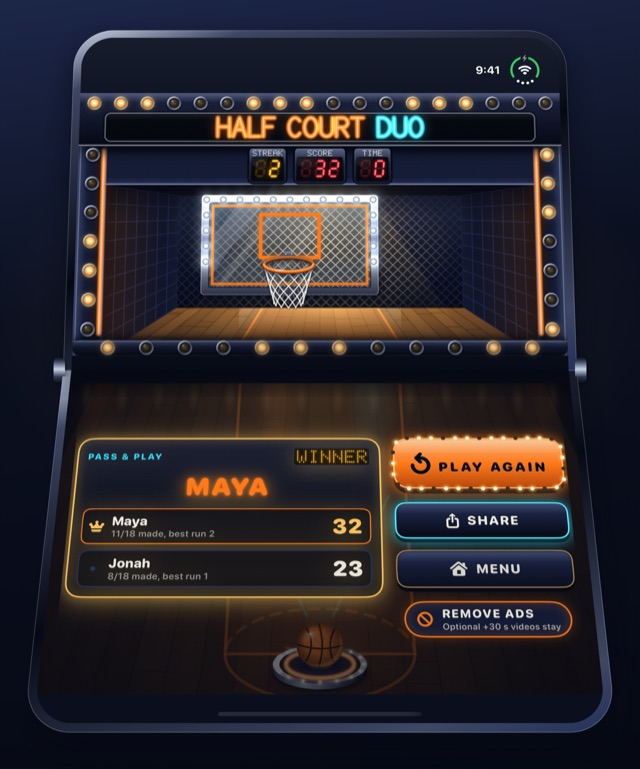
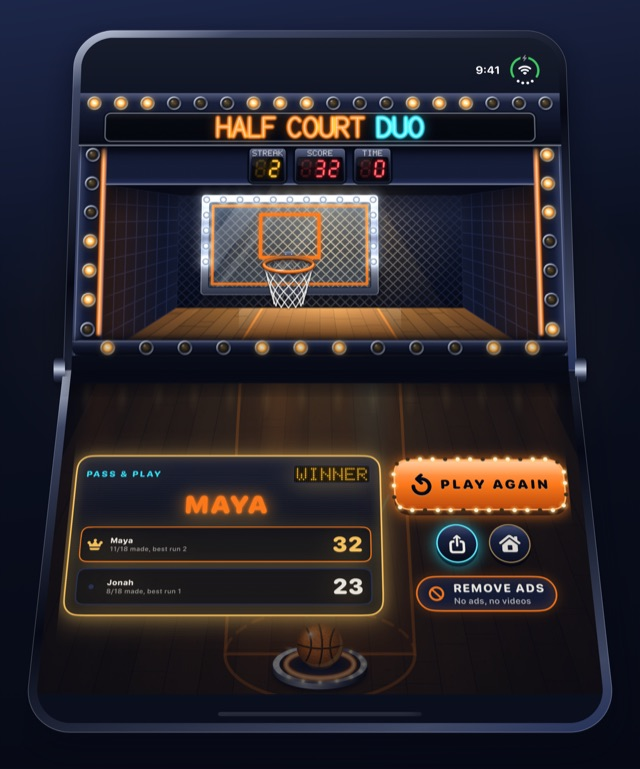
The site says what the game sells and how its ads run now: power-ups, Remove Ads removing every ad, an advert before each round's results, and consent at the first launch
The game's Monetization v2 (its docs/MONETIZATION-V2.md and decisions 255 to 335, integrated in 290 to 299)
changed four things this site described: an interstitial may follow every finished round, before its
results, behind an AD BREAK sign, with a 45 second floor and never mid-match in Pass & Play; the tracking
card and prompt come at the first launch, after Google's form, and never for a Remove Ads owner; three
power-ups are sold as seven consumable packs, Arcade only, never posted to Game Center and not
restorable; and Remove Ads now removes every ad, the videos included, with both rewards kept on a tap.

The privacy page is docs/PRIVACY-POLICY.md word for word again (987 words; it had not yet taken the Remove
Ads change either). The home page's ads section is the listing's description, with a power-ups section;
support gains a Power-ups section and rewrites Remove Ads, the +30 s overtime, Game Center, the ads and
your data from the code's own strings; terms say the game sells two kinds of thing, with prices only from
the App Store. The three pictures whose menu or results changed (05, 06, 07) are rebuilt from the game's
recaptured, recomposed store screenshots.

Gates: scripts/lint-site.py clean (privacy word for word); scripts/make-images.sh changed only the three
recaptured shots.

Claude-Session: https://claude.ai/code/session_01Ve2M4L9oReYar3Uw5EECAD

Changed region(s): [[0.0938, 0.5618, 0.9062, 0.8427]]

diff --git a/support/index.html b/support/index.html
@@ -4,7 +4,7 @@
 <meta charset="utf-8">
 <meta name="viewport" content="width=device-width, initial-scale=1">
 <title>Half Court Duo support</title>
-<meta name="description" content="Help with Half Court Duo: how to play, folding and the ways to hold it, Remove Ads and Restore Purchases, the +30 s video, Game Center, sound, and how to reach us.">
+<meta name="description" content="Help with Half Court Duo: how to play, folding and the ways to hold it, power-ups, Remove Ads and Restore Purchases, the +30 s overtime, Game Center, sound, and how to reach us.">
 <meta name="theme-color" content="#0B1020">
 <link rel="canonical" href="https://halfcourtduo.com/support/">
 <link rel="icon" href="/assets/logo-32.png" sizes="32x32" type="image/png">
@@ -13,7 +13,7 @@
 <meta property="og:site_name" content="Half Court Duo">
 <meta property="og:url" content="https://halfcourtduo.com/support/">
 <meta property="og:title" content="Half Court Duo support">
-<meta property="og:description" content="How to play, folding, Remove Ads and Restore Purchases, Game Center, and how to reach us.">
+<meta property="og:description" content="How to play, folding, power-ups, Remove Ads and Restore Purchases, Game Center, and how to reach us.">
 <meta property="og:image" content="https://halfcourtduo.com/assets/og-2.jpg">
 <meta property="og:image:width" content="1200">
 <meta property="og:image:height" content="630">
@@ -61,8 +61,9 @@
   <li><a href="#modes">The modes</a></li>
   <li><a href="#fold">Folding</a></li>
   <li><a href="#leaving">Leaving a round</a></li>
+  <li><a href="#power-ups">Power-ups</a></li>
   <li><a href="#remove-ads">Remove Ads and restoring it</a></li>
-  <li><a href="#overtime">The +30 s video</a></li>
+  <li><a href="#overtime">The +30 s overtime</a></li>
   <li><a href="#game-center">Game Center</a></li>
   <li><a href="#sound">Sound and haptics</a></li>
   <li><a href="#ads">Ads and your choices</a></li>
@@ -109,8 +110,8 @@ once.</p>
   hand the phone over and the second player taps <strong>Ready</strong>. Each half's last ten seconds
   are its bonus period, and Heat and the hoop start over for the second player. The higher score wins,
   and an equal score is a tie.</p>
-  <p>Nothing from a Pass &amp; Play match goes to Game Center, there is no +30 s video, and no full
-  screen advert is ever shown between the two halves.</p></dd>
+  <p>Nothing from a Pass &amp; Play match goes to Game Center, there is no +30 s overtime and no
+  power-ups, and no full screen advert is ever shown between the two halves.</p></dd>
 </dl>
 
 <h2 id="fold">Folding, and the ways to hold it</h2>
@@ -151,39 +152,75 @@ way of holding it plays the same game.</p>
   once, so a best made at the buzzer is never lost.</li>
 </ul>
 
+<h2 id="power-ups">Power-ups</h2>
+<p>Three power-ups change one Arcade round each, and only Arcade: the Daily Shootout, Streak and Pass
+&amp; Play are always played without them.</p>
+<dl>
+  <dt>Slow-Mo</dt>
+  <dd><p>The clock and the hoop run at three quarters speed. 60 seconds on the board last 80, and the
+  bonus period and any +30 s overtime stretch the same way. The ball flies at its usual speed.</p></dd>
+  <dt>Steady Hoop</dt>
+  <dd><p>The hoop stays still all round, whatever your score.</p></dd>
+  <dt>Hot Start</dt>
+  <dd><p>The ball is on fire from GO: every basket earns the Heat bonus for the first 15 seconds on the
+  clock, misses and all, and after that it stays lit until your next miss. With Slow-Mo as well, those
+  15 seconds on the clock take 20.</p></dd>
+</dl>
+<p><strong>Switching one on.</strong> The <strong>POWER-UPS</strong> tray sits beside
+<strong>PLAY</strong> on the main menu and beside <strong>Play Again</strong> on Arcade results (on the
+outside screen, a round Power-ups button beside PLAY opens it). Tap a power-up you hold to switch it on,
+and PLAY says what it will use: <em>60 second arcade, with Slow-Mo</em>. One of each switched-on
+power-up is used when the round starts, and they switch off again, so Play Again never uses one you did
+not choose. A round with power-ups counts for your powered best, never for the leaderboards or
+achievements.</p>
+<p><strong>Getting them.</strong> Tap <strong>Shop</strong> in the tray, or <strong>Settings,
+Power-ups, Get power-ups</strong>. Each power-up comes in packs of 5 and 20, and the Power-Up Bundle has
+5 of each; the prices shown are the App Store's, in your own currency. You can also watch a short video
+for one free power-up of your choice, up to 3 a day, when a video is ready.</p>
+<p><strong>They cannot be restored.</strong> Power-ups are kept on this device. They are used up as you
+play, so Restore Purchases cannot bring them back, and deleting the app deletes any you have left. If a
+pack you paid for does not arrive, open the game again with a connection: a purchase that was paid for
+is added the next time the game starts. If it still has not arrived, email us.</p>
+
 <h2 id="remove-ads">Remove Ads, and restoring it</h2>
-<p>Remove Ads is the only thing Half Court Duo sells. Buy it from the <strong>Remove Ads</strong> chip
-on the main menu or the results screen, or from <strong>Settings, Remove Ads</strong>. The price shown
-is the App Store's, in your own currency.</p>
+<p>Buy Remove Ads from the <strong>Remove Ads</strong> chip on the main menu or the results screen, or
+from <strong>Settings, Remove Ads</strong>. The price shown is the App Store's, in your own currency.</p>
 <div class="callout">
-  <p><strong>It removes the banner and the between-round ads, at once. It does not remove the optional
-  +30 s videos.</strong></p>
-  <p>Those videos only ever appear because you chose to watch one for thirty more seconds of play. If
-  buying Remove Ads switched them off, it would take a free extra half minute away from the people who
-  paid. The chip says so on its face: <em>Optional +30 s videos stay</em>.</p>
+  <p><strong>It removes every ad, the videos included: the banner, the full screen ads between rounds and
+  the optional videos.</strong> The chip says so on its face: <em>No ads, no videos</em>.</p>
+  <p>The two things the videos used to pay for stay, with no video to watch: at the buzzer,
+  <strong>Take +30 s</strong> plays on for thirty more seconds, once a round, and in the power-up shop
+  you can pick a free power-up, up to 3 a day. Once you own it the game asks Google for no adverts at
+  all, and asks you nothing about tracking.</p>
 </div>
 <p><strong>To restore it</strong> on a new phone or after reinstalling, open <strong>Settings</strong>
 and tap <strong>Restore Purchases</strong>. The purchase belongs to your Apple Account, not to the phone,
-so this works on any device signed in to the account that bought it. The game then says one of:</p>
+so this works on any device signed in to the account that bought it, and with Family Sharing on any
+device in your family. The game then says one of:</p>
 <ul>
-  <li><em>Ads are removed on this device. Thank you.</em> Done.</li>
-  <li><em>No previous purchase found on this Apple Account.</em> The phone is signed in to a different
-  Apple Account from the one that bought it. That is nearly always the answer.</li>
+  <li><em>All ads are removed on this device, videos included. Thank you.</em> Done.</li>
+  <li><em>No previous purchase found on this Apple Account. Power-ups are kept on this device and cannot
+  be restored.</em> The phone is signed in to a different Apple Account from the one that bought Remove
+  Ads. That is nearly always the answer.</li>
   <li><em>The App Store did not answer.</em> Check the connection and try again. A purchase that was
   paid for is safe, and arrives by itself once the App Store answers.</li>
 </ul>
-<p><strong>Ask to Buy.</strong> If a family organiser has to approve the purchase, the game says
-<em>Waiting for approval. You can keep playing.</em> The ads go as soon as it is approved.</p>
-<p>If a banner or a full screen advert appears after you have bought Remove Ads, that is a fault: tap
-Restore Purchases and check that Settings shows <em>Ads removed. Thank you.</em> If it does, email
-us. Refunds are Apple's to give, at
-<a href="https://reportaproblem.apple.com">reportaproblem.apple.com</a>.</p>
+<p><strong>Ask to Buy.</strong> If a family organiser has to approve a purchase, the game says
+<em>Waiting for approval. You can keep playing.</em> The ads go, or the power-ups arrive, as soon as it
+is approved.</p>
+<p>If a banner, a full screen advert or a video appears after you have bought Remove Ads, that is a
+fault: tap Restore Purchases and check that Settings shows <em>All ads removed, videos included. Thank
+you.</em> If it does, email us. Refunds are Apple's to give, at
+<a href="https://reportaproblem.apple.com">reportaproblem.apple.com</a>; a refunded Remove Ads brings
+the ads back.</p>
 
-<h2 id="overtime">The +30 s video</h2>
-<p>At the buzzer of an Arcade or Daily Shootout round, the game can offer <strong>Watch for +30
-s</strong>: an optional video that gives the round thirty more seconds. It is offered:</p>
+<h2 id="overtime">The +30 s overtime</h2>
+<p>At the buzzer of an Arcade or Daily Shootout round, the game can offer thirty more seconds. Without
+Remove Ads the offer is <strong>Watch for +30 s</strong>, an optional video; with Remove Ads it is
+<strong>Take +30 s</strong>, with no video. It is offered:</p>
 <ul>
-  <li>only when a video has actually loaded, so offline, or when none is ready, there is no offer;</li>
+  <li>for a video, only when one has actually loaded, so offline, or when none is ready, there is no
+  video offer;</li>
   <li>at most once a round, and never in Streak or Pass &amp; Play;</li>
   <li>once only: the offer is used when you tap it, so a video closed early earns nothing and the
   round goes to its results.</li>
@@ -205,11 +242,12 @@ Center</strong> says who is signed in, with buttons for the Leaderboards and the
   <li><strong>What is sent.</strong> A score goes to a board only when it beats your best already on
   that board. Anything you earn while signed out is kept, and sent the next time you are signed in. A
   Daily score is sent only while its own UTC day is still open.</li>
-  <li><strong>What is never sent.</strong> Anything at all from Pass &amp; Play. A round extended with
-  the +30 s video never reaches a leaderboard and does not count for the achievements that ask for one
-  60 second round, though its baskets still count toward the others.</li>
+  <li><strong>What is never sent.</strong> Anything at all from Pass &amp; Play, or from a round played
+  with power-ups. A round extended with +30 s never reaches a leaderboard and does not count for the
+  achievements that ask for one 60 second round, though its baskets still count toward the others.</li>
   <li><strong>Never over a round.</strong> If Game Center wants you to sign in while you are playing,
-  the game holds it until the next results screen, or until you open Settings.</li>
+  or while an advert break is on, the game holds it until the next results screen, or until you open
+  Settings.</li>
 </ul>
 
 <h2 id="sound">Sound, music and haptics</h2>
@@ -224,12 +262,14 @@ lettering on the cabinet's signs is drawn and stays its own size.</p>
 
 <h2 id="ads">Ads, tracking and your choices</h2>
 <p>A banner sits under the main menu and the results, never during a round. A full screen advert can
-follow a finished round: at most one every third round, at least 90 seconds apart, and none in your
-first session.</p>
-<p>After your first finished round, the results screen shows a card titled <em>Free to play, paid for
-by ads</em>. Tap Continue and iOS asks whether Half Court Duo may track you. Either answer gives you the
-whole game and every reward; it only changes how adverts are chosen. To change it later, use your
-phone's <strong>Settings, Privacy &amp; Security, Tracking</strong>.</p>
+follow a finished round: the buzzer sounds, an <strong>AD BREAK</strong> sign shows in the lower half,
+then the advert, then your results. It never comes within 45 seconds of the last one or of opening the
+game, and never between the two halves of a Pass &amp; Play match.</p>
+<p>The first time you open the game, after Google's consent form where it applies to you, a card titled
+<em>Free to play, paid for by ads</em> appears before the main menu. Tap Continue and iOS asks whether
+Half Court Duo may track you. Either answer gives you the whole game and every reward; it only changes
+how adverts are chosen. To change it later, use your phone's <strong>Settings, Privacy &amp; Security,
+Tracking</strong>. If you already own Remove Ads, none of this is asked.</p>
 <p>In the game, <strong>Settings, Ads</strong> has:</p>
 <ul>
   <li><strong>Personalised ads</strong>, a switch that turns adverts chosen for you off, from then on,
@@ -247,12 +287,12 @@ phone's <strong>Settings, Privacy &amp; Security, Tracking</strong>.</p>
 <p>Designed for iPhone Duo, and plays on any iPhone with iOS 27.1 or later. On a phone without a fold
 the game draws the fold as a brass rail across the middle of the screen, and there is nothing to fold
 and nothing to switch: no fold hint, no Fold to continue, and no Hinge parallax row in Settings.</p>
-<p>It does not need a connection to play. Without one there are simply no adverts, no +30 s offer and
-nothing sent to Game Center until you are back online.</p>
+<p>It does not need a connection to play. Without one there are simply no adverts, no video offers,
+nothing to buy and nothing sent to Game Center until you are back online.</p>
 
 <h2 id="data">Your data</h2>
-<p>There is no account. Your settings, your bests, the Pass &amp; Play names and a round you leave
-in the middle are kept on your phone, and deleting the game deletes them. Game Center scores and
+<p>There is no account. Your settings, your bests, the Pass &amp; Play names, the power-ups you hold
+and a round you leave in the middle are kept on your phone, and deleting the game deletes them. Game Center scores and
 achievements belong to your Game Center account with Apple and stay after the game is deleted. The
 <a href="/privacy/">privacy policy</a> has the rest.</p>
 </main>

diff --git a/privacy/index.html b/privacy/index.html
@@ -54,17 +54,20 @@ collects, who else collects something while you play, and what you can choose.</
 <h2 id="collects">What Half Court Duo collects</h2>
 <p>Nothing, of its own. There is no Half Court Duo account to create, nothing to sign in to, and no server of
 ours that the game talks to. Your settings, your best scores and records, the names you type for Pass &amp;
-Play, a round you leave in the middle, and the counters that space out the adverts are all kept on your
-phone, and they go when you delete the game.</p>
+Play, a round you leave in the middle, the power-ups you hold, and the counters that space out the
+adverts are all kept on your phone, and they go when you delete the game.</p>
 
 <h2 id="apple">Apple's services</h2>
 <p><strong>Game Center</strong> is optional. If you are signed in to it, your scores and your progress towards the
 achievements go to Apple, not to us, so they can appear on the leaderboards and in Game Center. Pass &amp;
-Play matches are never posted, and a round extended with the "+30 s" video never reaches a leaderboard.
+Play matches and rounds played with power-ups are never posted, and a round extended with "+30 s" never
+reaches a leaderboard.
 <a href="https://www.apple.com/legal/privacy/">Apple's privacy policy</a> governs
 Game Center, and you can manage or remove that data in Apple's Game Center settings.</p>
-<p><strong>Purchases</strong> are handled by Apple. When you buy Remove Ads or restore it, Apple takes the payment; the
-game only asks Apple, on your phone, whether Remove Ads is yours. We never see your payment details.</p>
+<p><strong>Purchases</strong> are handled by Apple. When you buy Remove Ads or a pack of power-ups, or restore Remove
+Ads, Apple takes the payment; the game only asks Apple, on your phone, whether Remove Ads is yours and
+which packs you have bought, and adds those power-ups to the ones kept on your phone. We never see your
+payment details. Power-ups cannot be restored: they go when you delete the game.</p>
 
 <h2 id="advertising">Advertising</h2>
 <p>Advertising is what keeps the game free, and it comes from one company: Google, through AdMob. Google's
@@ -79,16 +82,18 @@ software in the game collects:</p>
   <li><strong>Diagnostics</strong>, such as a record of a crash or of how fast an advert loaded.</li>
 </ul>
 <p>Where the adverts appear: a banner under the main menu and the results, never during a round; a full
-screen advert after some finished rounds (at most one every third round, at least 90 seconds apart, and
-none in your first session); and an optional video you can choose to watch at the buzzer for thirty more
-seconds. Nothing in the game requires you to watch anything.</p>
+screen advert after a finished round, before its results, but never within 45 seconds of the last one or
+of opening the game, and never in the middle of a Pass &amp; Play match; and optional videos you can choose
+to watch, at the buzzer for thirty more seconds and in the power-up shop for a free power-up. Nothing in
+the game requires you to watch anything.</p>
 <p>Google's privacy policy governs what Google does with this data:
 <a href="https://policies.google.com/privacy">https://policies.google.com/privacy</a>. How Google uses data from apps that use its services:
 <a href="https://policies.google.com/technologies/partner-sites">https://policies.google.com/technologies/partner-sites</a>.</p>
 
 <h2 id="choices">What you can choose</h2>
-<p><strong>Adverts chosen for you.</strong> After your first finished round, the results screen explains that the game is
-paid for by adverts, and then iOS asks whether Half Court Duo may track you. If you allow it, Google may
+<p><strong>Adverts chosen for you.</strong> The first time you open the game, after Google's consent form where it
+applies, a card explains that the game is paid for by adverts, and then iOS asks whether Half Court Duo may
+track you. If you allow it, Google may
 use Apple's advertising identifier to choose adverts for you. If you do not, you still get the whole game
 and every reward, and the adverts are not chosen using that identifier. You can change your answer at any
 time in your phone's Settings, under Privacy &amp; Security, Tracking.</p>
@@ -98,9 +103,12 @@ then on, whatever your other answers.</p>
 choice before any advert is requested, and Settings, Ads, Privacy options lets you change it. <strong>In the
 American states with their own privacy laws</strong>, the same Privacy options row is where you opt out of the
 sale or sharing of personal information. Saying no costs you nothing: the game is the same either way.</p>
-<p><strong>Remove Ads</strong> is one purchase that removes the banner and the full screen adverts between rounds. It does
-not remove the optional "+30 s" videos, which stay available, and are always your choice; so Google's
-software still starts, and your choices above still apply, after you buy it.</p>
+<p><strong>Remove Ads</strong> is one purchase that removes every advert, the videos included: the banner, the full screen
+adverts between rounds and the optional videos. The "+30 s" overtime and the free power-ups stay, with no
+video to watch. Once you own it the game asks Google for no adverts at all, does not start Google's
+advertising software, and does not ask you about tracking. Google's consent tool is still asked once a
+launch, so that Settings can keep its Privacy options row wherever the law requires one. If the purchase
+is refunded, adverts come back, and so do the questions above.</p>
 <p><strong>Report an ad.</strong> If you see an advert that should not be there, Settings, Ads, Report an ad tells you how
 to send it to us, and we can block that advertiser for everyone playing.</p>
 

diff --git a/index.html b/index.html
@@ -178,16 +178,28 @@
 </div></section>
 
 <section><div class="wrap">
-  <h2>About the ads, <em>plainly</em></h2>
+  <h2>Power-ups, <em>if you want them</em></h2>
+  <p>Three power-ups for Arcade rounds, sold in packs. <strong>Slow-Mo</strong> runs the clock and the hoop
+  at three quarters speed, so sixty seconds on the board last eighty. <strong>Steady Hoop</strong> keeps
+  the hoop still all round. <strong>Hot Start</strong> sets the ball on fire at the start and keeps it lit
+  for the first fifteen seconds, misses and all. Switch one on beside PLAY and it is used when the round
+  starts. A powered round keeps its own best and is never posted to Game Center, and the Daily Shootout,
+  Streak and Pass &amp; Play are always played without them. Power-ups stay on your phone and cannot be
+  restored.</p>
+</div></section>
+
+<section><div class="wrap">
+  <h2>About the ads and purchases, <em>plainly</em></h2>
   <div class="callout">
     <p>Half Court Duo is free. A banner sits under the menu and the results, never during a round. A
-    full screen ad can follow a finished round: at most one every third round, at least 90 seconds
-    apart, and none in your first session. At the buzzer of an Arcade or Daily Shootout round you can
-    choose to watch a video for thirty more seconds, once a round; that round counts for your own best
-    but not for the leaderboards.</p>
-    <p><strong>Remove Ads</strong>, one purchase, removes the banner and the between-round ads. It does
-    <strong>NOT</strong> remove the optional +30 s videos, which stay, and are always your choice.
-    Nothing else is for sale: no coins, no energy, no loot boxes.</p>
+    full screen ad can follow a finished round, after the buzzer and before your results: never within
+    45 seconds of the last one or of opening the game, and never in the middle of a Pass &amp; Play
+    match. At the buzzer of an Arcade or Daily Shootout round you can choose to watch a video for thirty
+    more seconds, once a round; that round counts for your own best but not for the leaderboards. In the
+    power-up shop you can choose to watch a video for a free power-up, up to three a day.</p>
+    <p><strong>Remove Ads</strong>, one purchase, removes every ad, the videos included. The +30 s
+    overtime and the free power-ups stay, with no video to watch. Apart from Remove Ads and the power-up
+    packs nothing is for sale: no coins, no energy, no loot boxes.</p>
   </div>
   <p>What the advertising collects, and every choice you have about it, is in the
   <a href="/privacy/">privacy policy</a>.</p>
@@ -203,8 +215,8 @@
       <li><img src="/assets/shots/03-bonus.jpg" width="640" height="769" loading="lazy" alt="The final fifteen seconds: the backboard red and tilted, BONUS x3 lit across the scoreboard, a ball rising toward the rim."></li>
       <li><img src="/assets/shots/04-daily.jpg" width="640" height="769" loading="lazy" alt="A Daily Shootout bonus window: BONUS on the scoreboard, the backboard lit red, a ball in the air."></li>
       <li><img src="/assets/shots/05-winner.jpg" width="640" height="769" loading="lazy" alt="A Pass and Play winner card: Maya wins with 32 over Jonah's 23, with Play Again, Share and Menu buttons."></li>
-      <li><img src="/assets/shots/06-results.jpg" width="640" height="769" loading="lazy" alt="Arcade results: NEW BEST, a score of 57, 20 of 31 made at 65 percent, with Play Again, Share and Menu."></li>
-      <li><img src="/assets/shots/07-menu.jpg" width="640" height="769" loading="lazy" alt="The main menu over the cabinet, the LED sign reading FLICK TO SHOOT, with Play, Daily Shootout, Streak, Pass and Play, Settings and Remove Ads."></li>
+      <li><img src="/assets/shots/06-results.jpg" width="640" height="769" loading="lazy" alt="Arcade results: NEW BEST, a score of 57, 20 of 31 made at 65 percent, with Share, Menu, the power-ups tray, Play Again and Remove Ads."></li>
+      <li><img src="/assets/shots/07-menu.jpg" width="640" height="769" loading="lazy" alt="The main menu over the cabinet, the LED sign reading FLICK TO SHOOT, with Play, Daily Shootout, Streak, Pass and Play, the power-ups tray and Shop, Settings and Remove Ads."></li>
     </ul>
   </div>
   <p class="cta">Made for anyone who ever fed a basketball machine on a boardwalk. Not a children's app,

diff --git a/terms/index.html b/terms/index.html
@@ -47,16 +47,25 @@ Licence Agreement for applications</a>. What follows adds to it in the places th
 game. Where the two disagree, the paragraph here is the one we intend to be held to.</p>
 
 <h2>What Half Court Duo sells</h2>
-<p>The game is free to download and free to play, every mode included. It sells exactly one thing,
-through Apple: <strong>Remove Ads</strong>, bought once, which removes the banner and the full screen
-adverts between rounds. It deliberately does not remove the optional "+30 s" videos, which stay
-available and are always your choice; <a href="/support/#remove-ads">Support</a> explains why.</p>
-<p>Remove Ads belongs to your Apple Account and comes back with <strong>Restore Purchases</strong> in the
-game's Settings, on any device signed in to that account and after any reinstall. There are no coins,
-no currency, no consumables, no loot boxes, no subscriptions and nothing else for sale. Refunds are
-handled by Apple at <a href="https://reportaproblem.apple.com">reportaproblem.apple.com</a>, not by us.</p>
-<p>If anything is ever added for sale, its price and what it gives will be set out here and in the game
-before anybody can buy it.</p>
+<p>The game is free to download and free to play, every mode included. It sells two kinds of thing,
+through Apple, and the price of each is the one the App Store shows you before you buy:</p>
+<ul>
+  <li><strong>Remove Ads</strong>, bought once, which removes every advert, the optional videos
+  included. The "+30 s" overtime and the free power-ups the videos paid for stay, with no video to
+  watch. It belongs to your Apple Account and comes back with <strong>Restore Purchases</strong> in the
+  game's Settings, on any device signed in to that account, through Family Sharing, and after any
+  reinstall.</li>
+  <li><strong>Power-up packs</strong>: a stated number of uses of Slow-Mo, Steady Hoop or Hot Start, or
+  five of each in the Power-Up Bundle, for Arcade rounds only. They are consumable: each use is spent
+  when a round starts with it switched on, they never expire, and they are kept on the device they were
+  bought on. Restore Purchases cannot bring them back, and deleting the game deletes any you have left.
+  <a href="/support/#power-ups">Support</a> says exactly what each one does.</li>
+</ul>
+<p>There are no coins, no currency, no loot boxes, no subscriptions and nothing else for sale, and
+nothing you buy is random. Refunds are handled by Apple at
+<a href="https://reportaproblem.apple.com">reportaproblem.apple.com</a>, not by us.</p>
+<p>If anything else is ever added for sale, its price and what it gives will be set out here and in the
+game before anybody can buy it.</p>
 
 <h2>Playing fairly</h2>
 <p>Please do not modify the game, tamper with its saved data, use tools to automate play, or try to post
